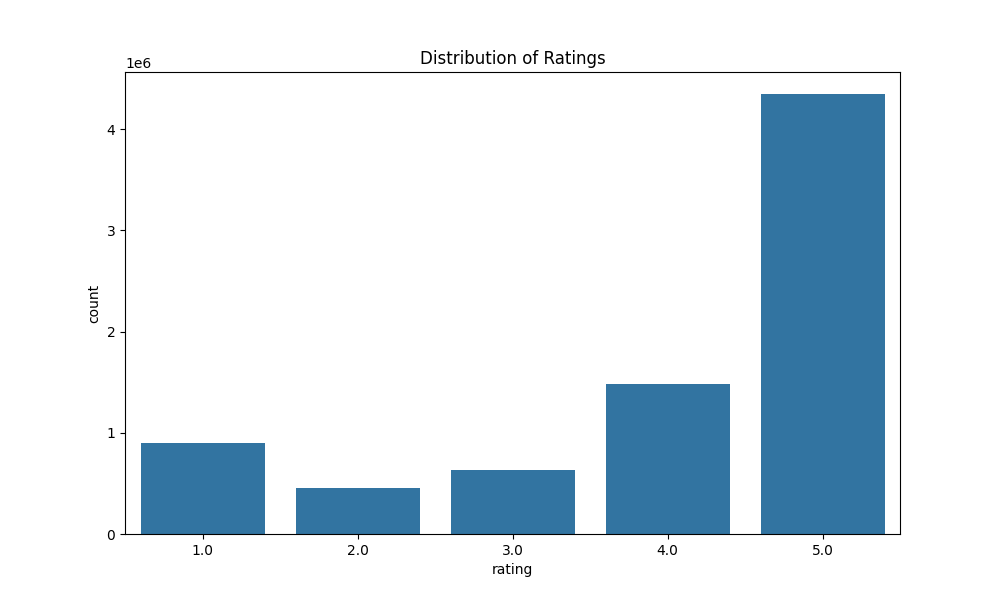
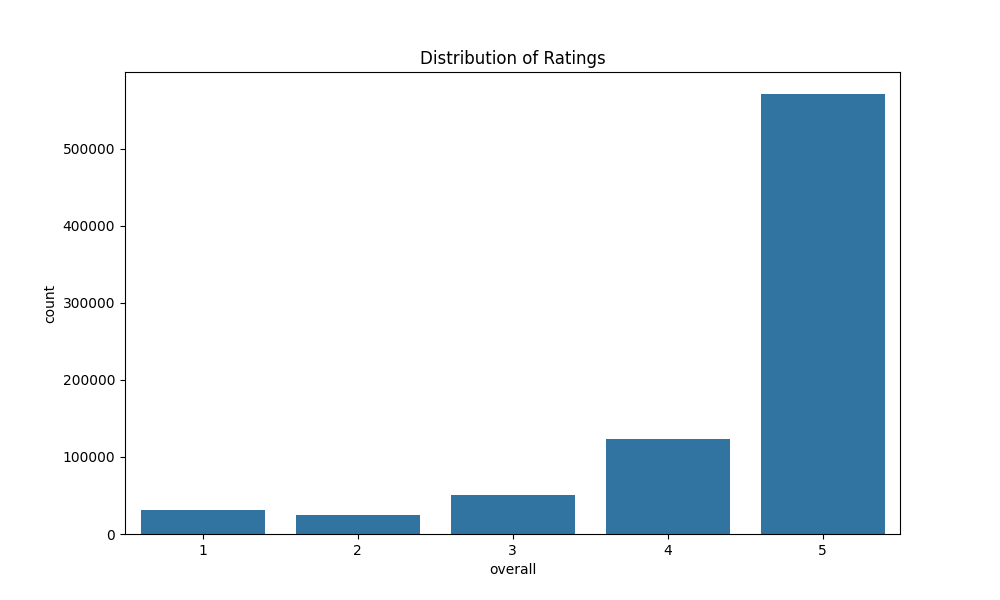
changed dataset to 'Office_Products_5'; further data exploration

diff --git a/src/data_preprocessing.py b/src/data_preprocessing.py
@@ -3,7 +3,8 @@ import matplotlib.pyplot as plt
 import seaborn as sns
 
 def load_data(filepath):
-    return pd.read_csv(filepath)
+    """Load Dataset from a JSON file"""
+    return pd.read_json(filepath, lines=True)
 
 def explore_data(df):
 
@@ -17,19 +18,30 @@ def explore_data(df):
     print("\nSummary statistics:\n---------------------------------")
     print(df.describe())
 
-    print("Columns in the dataset:\n---------------------------------")
-    print(df.columns)
+    print("\nColumns in the dataset:\n---------------------------------")
+    print(df.columns.tolist())
+
+    # Sample a few reviews
+    print("\nSample reviews:\n---------------------------------")
+    print(df['reviewText'].head())
     print("\n---------------------------------")
+
     # Visualize the distribution of ratings
     plt.figure(figsize=(10,6))
-    sns.countplot(x='rating', data=df)
+    sns.countplot(x='overall', data=df)
     plt.title('Distribution of Ratings')
     plt.savefig('../notebooks/rating_distribution.png')
     plt.close()
 
-def main():
-    df = load_data("../data/amazon_reviews.csv")
+    # Basic text statistics
+    df['review_length'] = df['reviewText'].str.len()
+    print("\nReview length statistics:")
+    print(df['review_length'].describe())
 
+def main():
+    print("Loading data...")
+    df = load_data("../data/Office_Products_5.json")
+    print("Data Loaded.")
     explore_data(df)
 
 if __name__ == "__main__":
